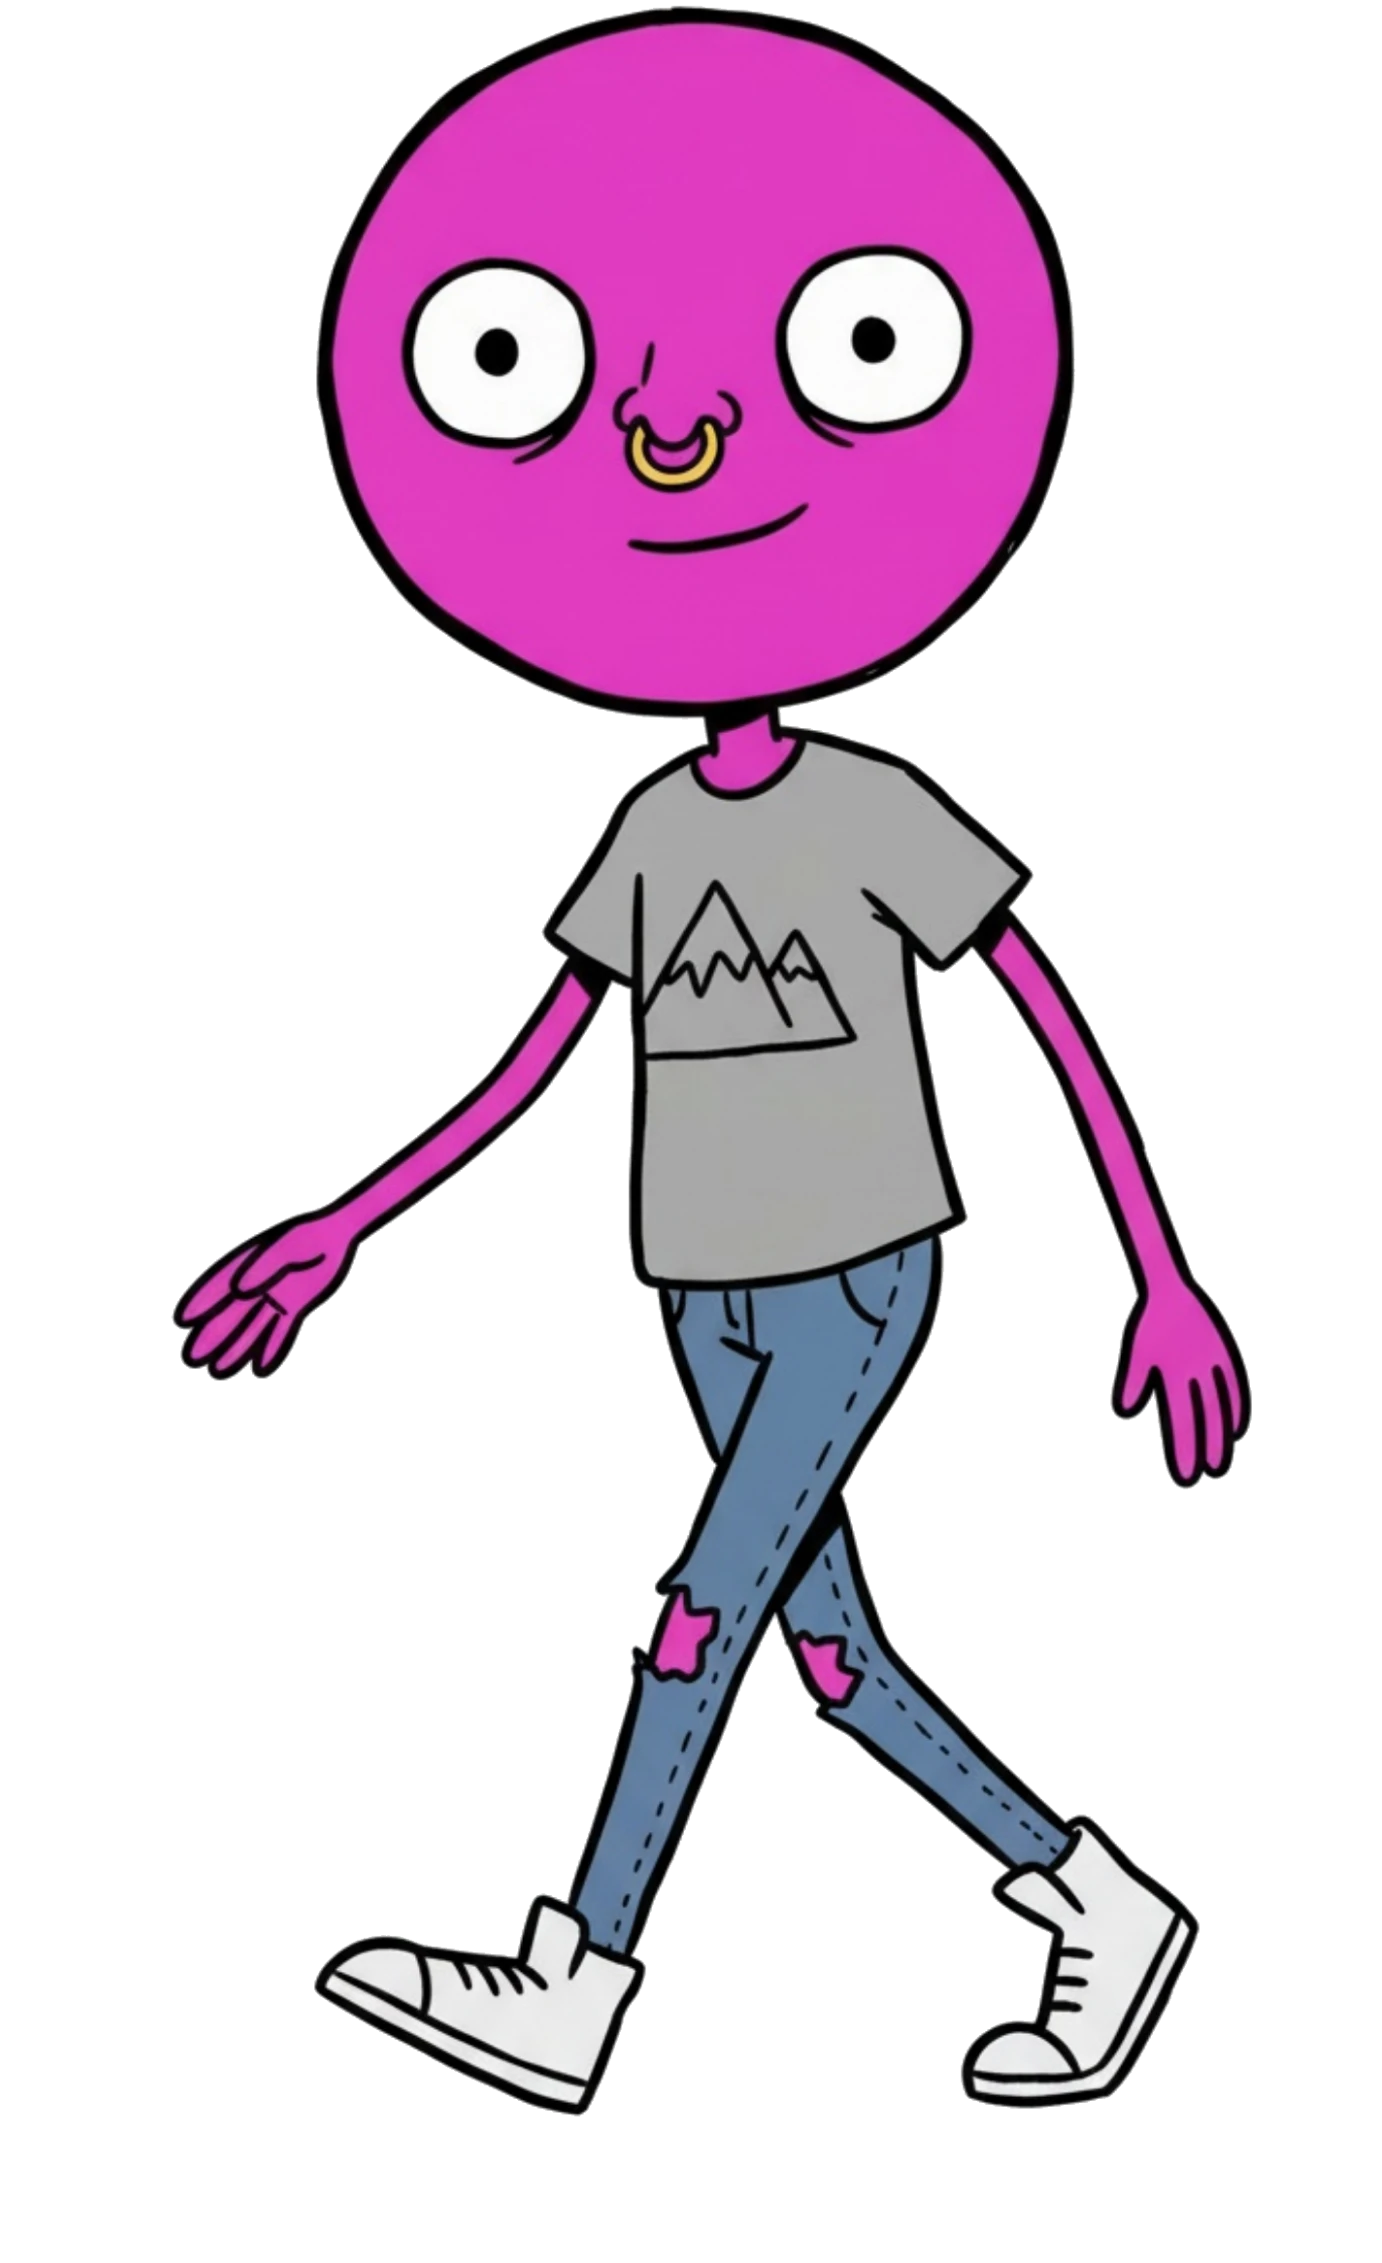
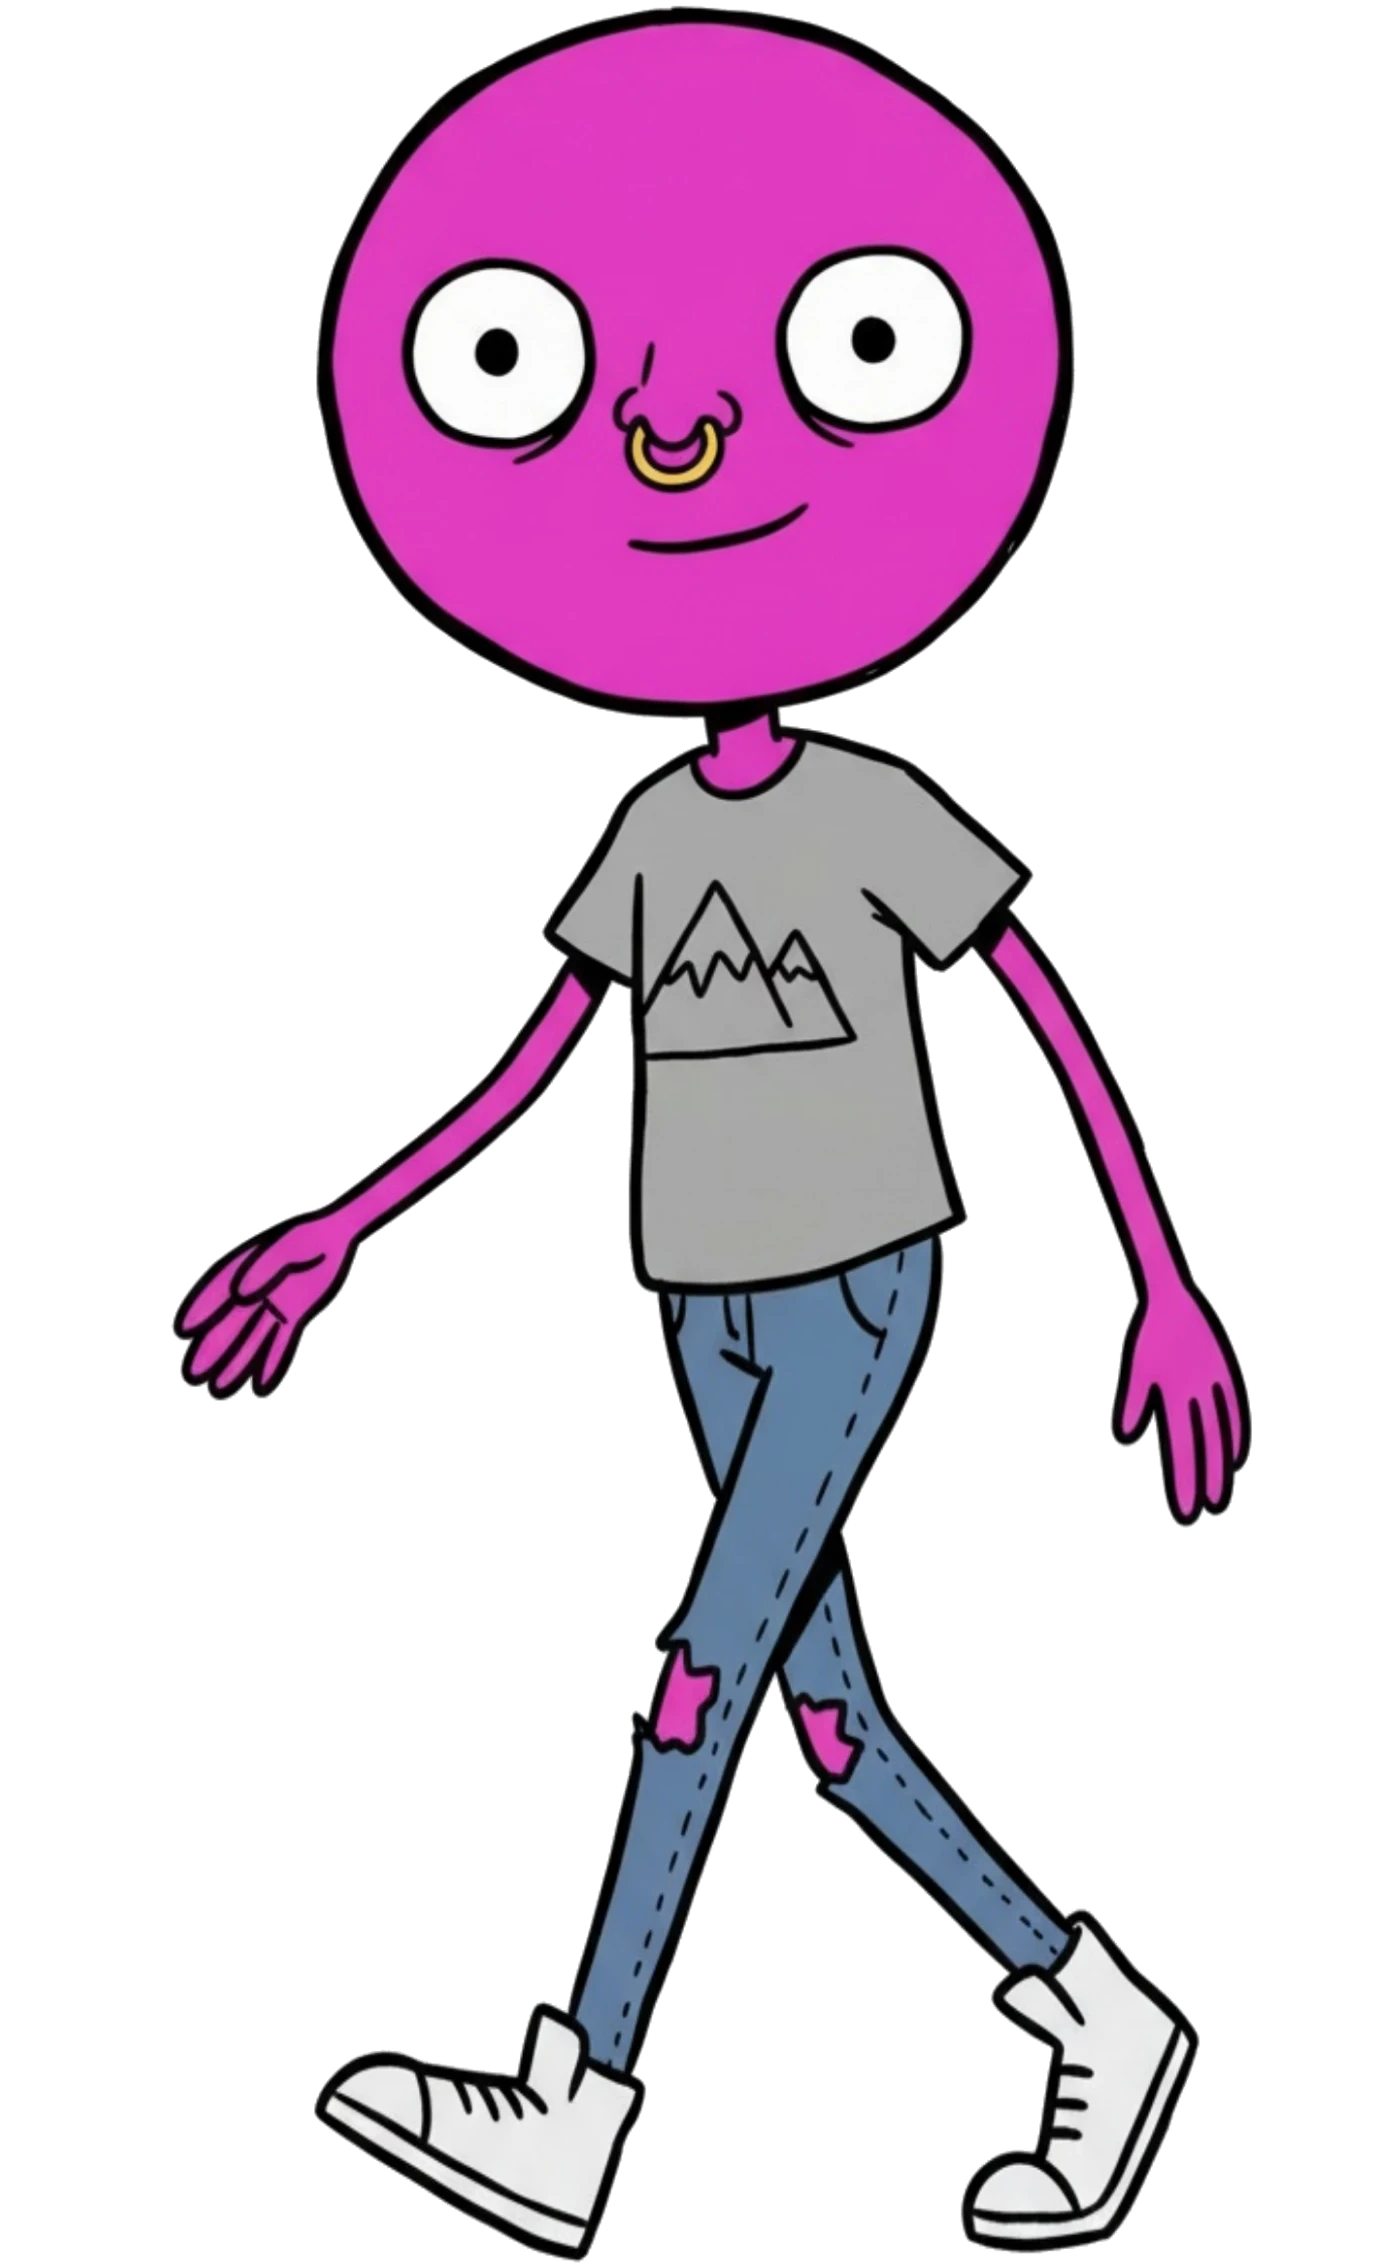
Caminar sin patinar ni dar saltitos (pasos a la medida de la zancada, pies a la misma altura) y moverse solo cuando la historia lo pide
Claude-Session: https://claude.ai/code/session_01W1d2B3tJHY5s1jRup8PdJX

Changed region(s): [[0.2178, 0.5568, 0.8712, 1.0], [0.809, 0.5568, 0.9023, 0.6805], [0.1245, 0.5568, 0.2489, 0.6186]]

diff --git a/src/script/voices.ts b/src/script/voices.ts
@@ -456,6 +456,25 @@ function moverPersonaje(tracks: Tracks, vinetas: Vineta[], dur: number, raiz: Pa
   const poner = (canal: string, t: number, v: number | string, ease: 'salto' | 'lineal' | 'suave') => {
     tracks[canal] = [...(tracks[canal] ?? []).filter((k) => Math.abs(k.t - t) > 1e-4), { t, v, ease }].sort((a, b) => a.t - b.t)
   }
+  // Moverse solo cuando tiene sentido en un capítulo (si no, «se mueve raro, sin sentido»): entra solo en
+  // la PRIMERA viñeta de un lugar, sale solo en la ÚLTIMA, cambiar de sitio como mucho una vez por vídeo, el
+  // respingo solo con una cara exagerada, y en total como mucho un movimiento cada ~8 s
+  const conCuerpo = vinetas.filter((x) => !x.inserto)
+  let cambios = 0, ultimoMov = -99
+  for (const v of vinetas) {
+    if (!v.movimiento || v.inserto) continue
+    const k = conCuerpo.indexOf(v)
+    const primeraDelLugar = k === 0 || conCuerpo[k - 1].fondo !== v.fondo
+    const ultimaDelLugar = k === conCuerpo.length - 1 || conCuerpo[k + 1].fondo !== v.fondo
+    const postura = String(valor(V, v.t + 0.3) ?? '')
+    const ok =
+      (v.movimiento === 'entra' && primeraDelLugar) ||
+      (v.movimiento === 'sale' && ultimaDelLugar && k < conCuerpo.length - 1) ||
+      (v.movimiento === 'se_mueve' && cambios++ < 1) ||
+      (v.movimiento === 'salta' && /^t_e_|^(enfado|llorar|celebrar|mejillas|stop)$/.test(postura))
+    if (!ok || v.t - ultimoMov < 8) v.movimiento = undefined
+    else ultimoMov = v.t
+  }
   // Donde se quedó tras moverse: en las viñetas siguientes del mismo lugar sigue ahí (no salta de sitio)
   let ultimo: { fondo: string; frac: number } | null = null
   vinetas.forEach((v, i) => {
@@ -491,11 +510,17 @@ function moverPersonaje(tracks: Tracks, vinetas: Vineta[], dur: number, raiz: Pa
       hasta = sitio[hacia]
       if (Math.abs(hasta - desde) < 0.08) return
     }
-    const paseo = Math.min(1.5, Math.max(0.55, Math.abs(hasta - desde) / 0.6))
+    // Pasos de verdad: cada paso avanza lo que mide la zancada del dibujo (~560 px del personaje), así
+    // los pies no patinan; pocos pasos largos y con decisión (0,22 s cada uno)
+    const zancada = 560 * project.instances[0].scale * escalaPlano(v.plano) * zoom
+    const distancia = Math.abs(hasta - desde) * W
+    const PASO = 0.22
+    const pasos = Math.max(2, Math.round(distancia / zancada))
+    const paseo = pasos * PASO
     let a = r(t0 + 0.05)
     if (v.movimiento === 'sale') a = r(Math.max(t0 + 0.3, t1 - paseo - 0.1))
     const b = r(Math.min(t1 - 0.05, a + paseo))
-    if (b - a < 0.3) return
+    if (b - a < 0.4) return
     const vuelve = valor(V, b) ?? raiz.defaultVariant
     const despues = valor(V, t1) ?? raiz.defaultVariant // la postura de la viñeta siguiente (tras salir)
     // Posición: se desliza de un sitio a otro
@@ -507,10 +532,11 @@ function moverPersonaje(tracks: Tracks, vinetas: Vineta[], dur: number, raiz: Pa
     quitar(V, a, b)
     quitar(Y, a, b)
     let k = 0
-    for (let t = a; t < b - 0.05; t = r(t + 0.16), k++) {
+    const paso = (b - a) / pasos
+    for (let t = a; t < b - 0.05; t = r(t + paso), k++) {
       poner(V, t, k % 2 ? 't_andar_b' : 't_andar_a', 'salto')
       poner(Y, t, 0, 'suave')
-      poner(Y, r(t + 0.08), -14, 'suave')
+      poner(Y, r(t + paso / 2), -10, 'suave')
     }
     poner(Y, b, 0, 'salto')
     if (v.movimiento !== 'sale') poner(V, b, vuelve, 'salto')

diff --git a/api/actuar.ts b/api/actuar.ts
@@ -62,15 +62,13 @@ la que habla y él mismo viviendo la situación.
      le pasa, lo que imagina, un antes/después, una lista de cosas): normalmente 1 de cada 3 o 4 viñetas,
      cortos (1,5-3 s), y vuelve al narrador para la reacción. Si no es inserto, «inserto» = "". En un
      inserto «fondo» y «tamano» dan igual (pon el lugar de antes y «general»). No repitas un inserto.
-   - «movimiento» y «hacia» (ES UN CAPÍTULO DE DIBUJOS, NO UN BUSTO PARLANTE: el personaje vive en el
-     sitio, no está clavado): «entra» = llega caminando desde fuera de cuadro hasta «hacia» (al llegar a
-     un lugar nuevo, al empezar una situación); «se_mueve» = camina dentro del cuadro hasta «hacia» (va
-     hacia algo, se aparta, cambia de sitio para el siguiente golpe); «sale» = se va caminando por el lado
-     «hacia» al final de la viñeta (se marcha, huye, deja la escena vacía como remate); «salta» = respingo
-     de susto o alegría; «ninguno» = quieto. Que se mueva en 1 de cada 2-3 viñetas en las que se le ve
-     entero, siempre con un motivo de la historia (no por moverse), nunca en un inserto. Al entrar o
-     moverse cambia de posición en el cuadro: varía izq/centro/der para que cada viñeta se vea distinta.
-     Si no se mueve, «hacia» = «centro».
+   - «movimiento» y «hacia»: el personaje solo se mueve cuando LA HISTORIA lo pide, nunca de adorno.
+     «entra» = llega caminando a un lugar (solo en la primera viñeta de ese lugar y solo si la historia
+     dice que llega o va allí; si está sentado, cenando o ya estaba, NO entra); «sale» = se marcha o huye
+     (como remate, en la última viñeta de un lugar); «se_mueve» = se acerca o se aparta de algo concreto
+     que está pasando (como mucho una vez); «salta» = respingo con una cara exagerada de susto o alegría.
+     En la duda, «ninguno». Lo normal en un vídeo de 30 s: 1 o 2 movimientos en total. Si no se mueve,
+     «hacia» = «centro». Nunca en un inserto.
    - «lado»: «centro» casi siempre. «izq»/«der» solo si al otro lado va a aparecer algo (un bocadillo, una
      cifra); el lado no cambia mientras siga en el mismo lugar.
 
